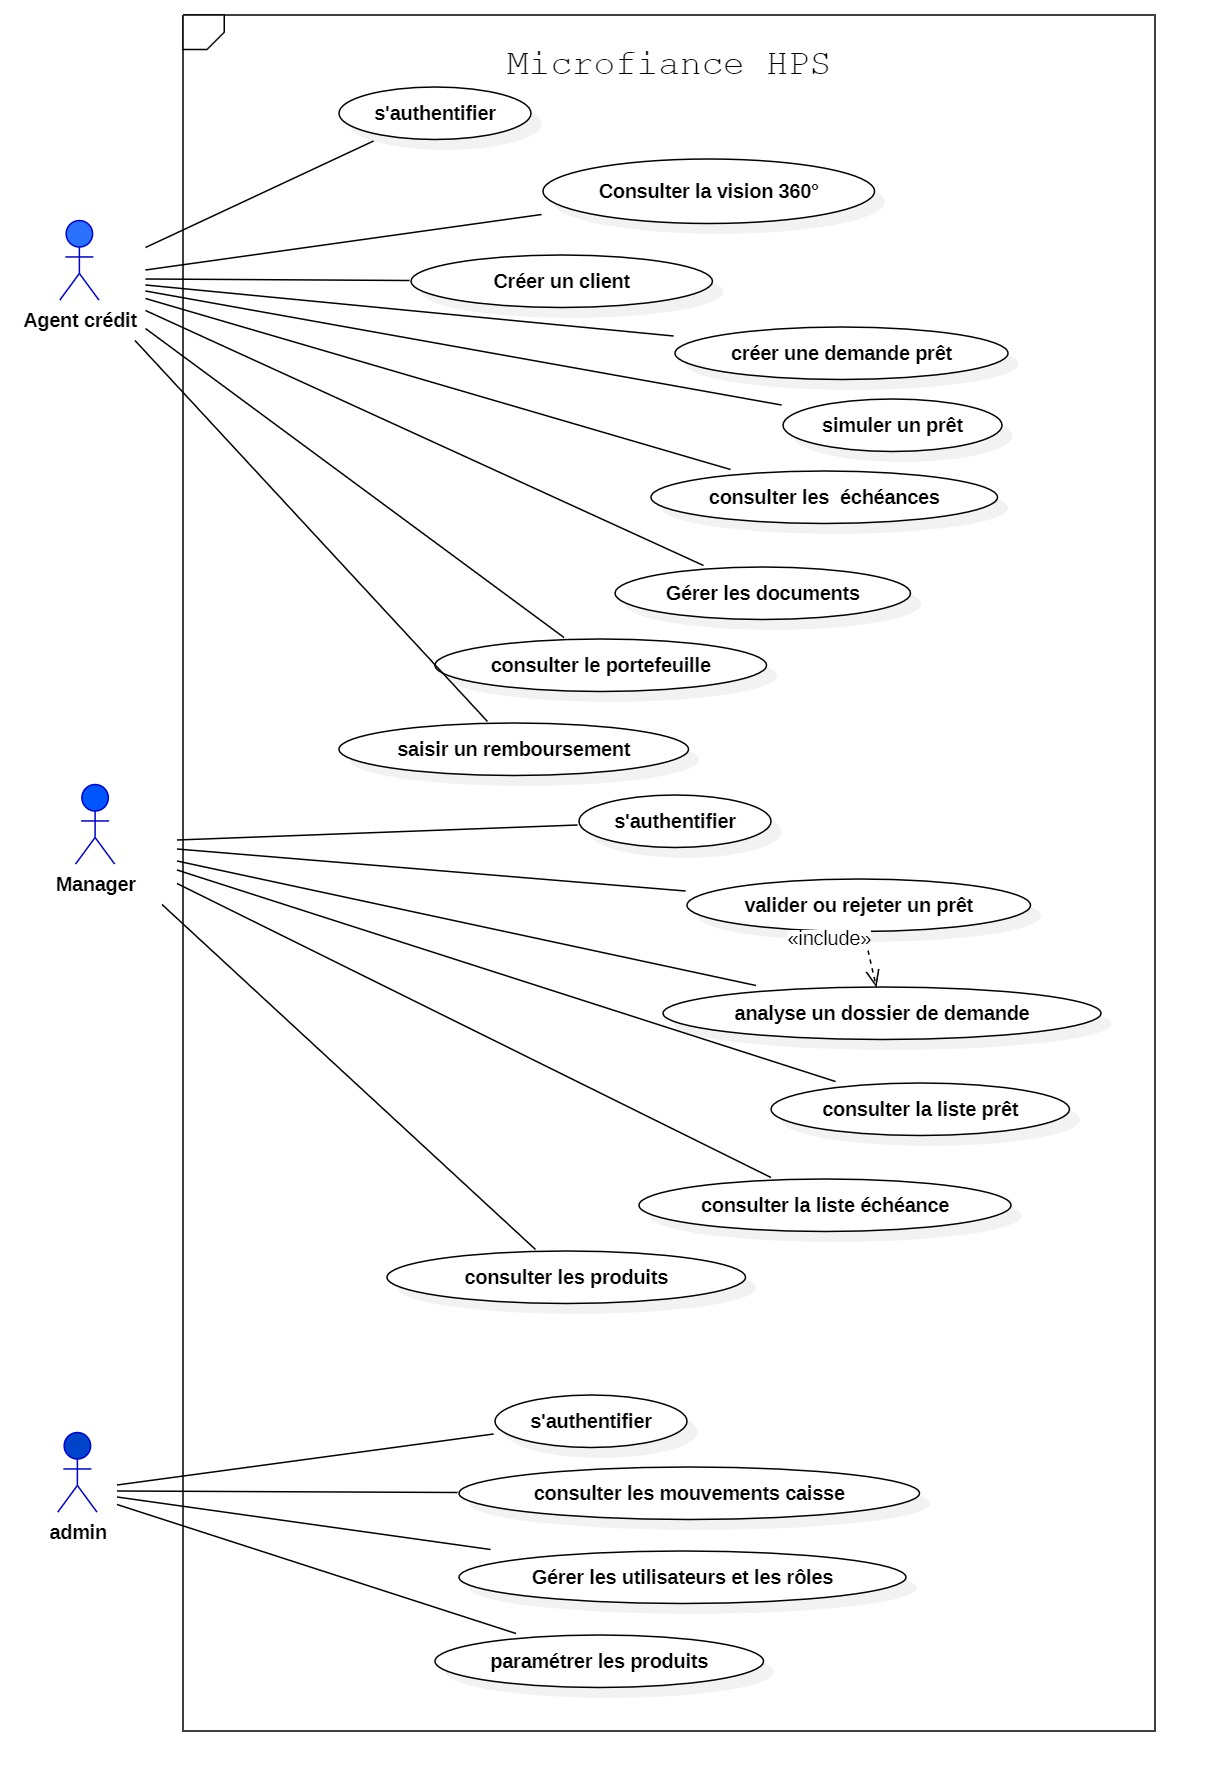
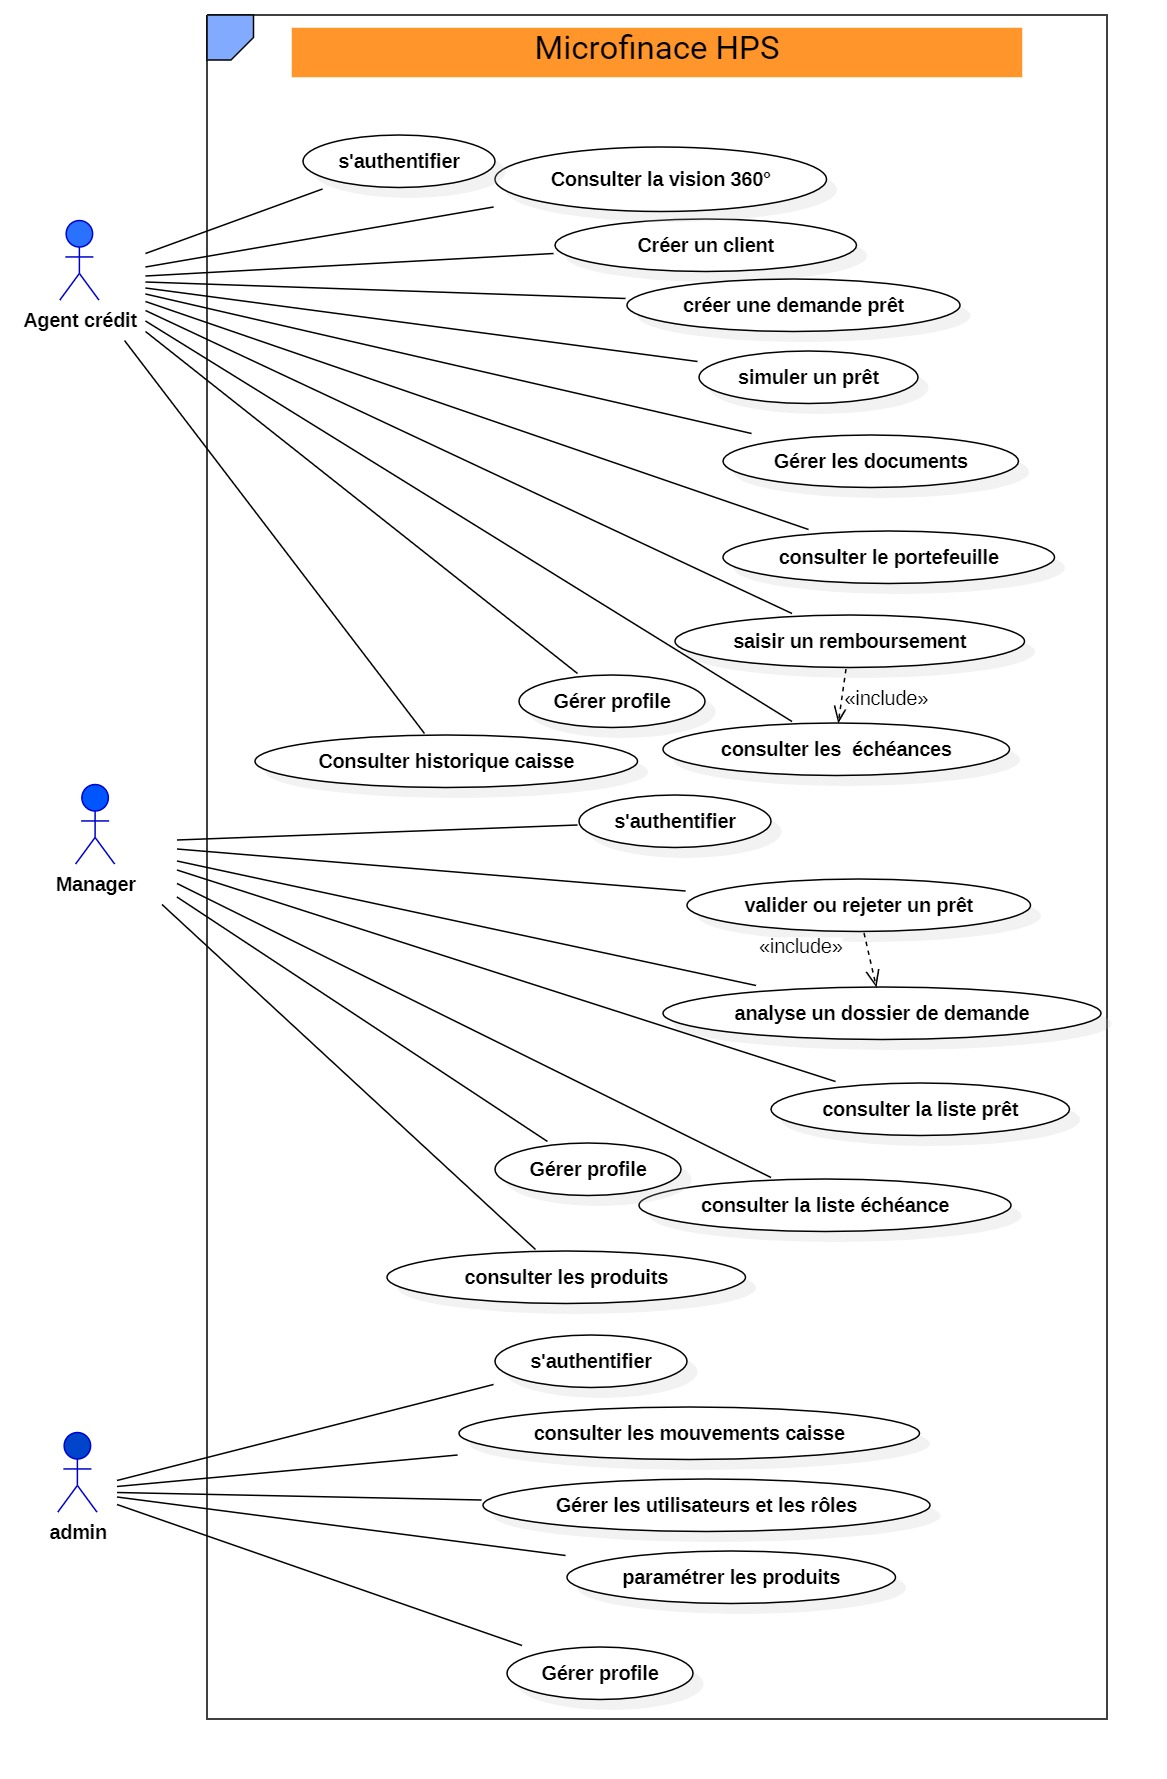
uml et dev

diff --git a/front/src/pages/demandes/DemandesPage.jsx b/front/src/pages/demandes/DemandesPage.jsx
@@ -20,7 +20,6 @@ const WORKFLOW = {
   EN_COURS_ANALYSE: { label: 'En analyse',      color: 'bg-blue-100 text-blue-800' },
   APPROUVEE:        { label: 'Approuvée',       color: 'bg-emerald-100 text-emerald-800' },
   REJETEE:          { label: 'Rejetée',         color: 'bg-red-100 text-red-800'},
-  ANNULEE:          { label: 'Annulée',         color: 'bg-surface-100 text-surface-800' },
   DECAISSEE:        { label: 'Décaissée',       color: 'bg-purple-100 text-purple-800' },
 }
 
@@ -34,7 +33,7 @@ const ETAPE_IDX = { EN_ATTENTE: 0, EN_COURS_ANALYSE: 1, APPROUVEE: 2, DECAISSEE:
 
 function WorkflowBar({ statut }) {
   const cur = ETAPE_IDX[statut] ?? 0
-  const rej = statut === 'REJETEE' || statut === 'ANNULEE'
+  const rej = statut === 'REJETEE' 
   return (
     <div className="flex items-center gap-0 flex-wrap">
       {ETAPES.map((e, i) => (

diff --git a/back-end/app/Console/Commands/RecalculerPenalitesCommand.php b/back-end/app/Console/Commands/RecalculerPenalitesCommand.php
@@ -20,7 +20,7 @@ class RecalculerPenalitesCommand extends Command
             ->where('date_echeance', '<', now())
             ->get();
 
-        $this->info("🔄 {$echeances->count()} échéances à traiter...");
+        $this->info(" {$echeances->count()} échéances à traiter...");
 
         $updated = 0;
         foreach ($echeances as $echeance) {
